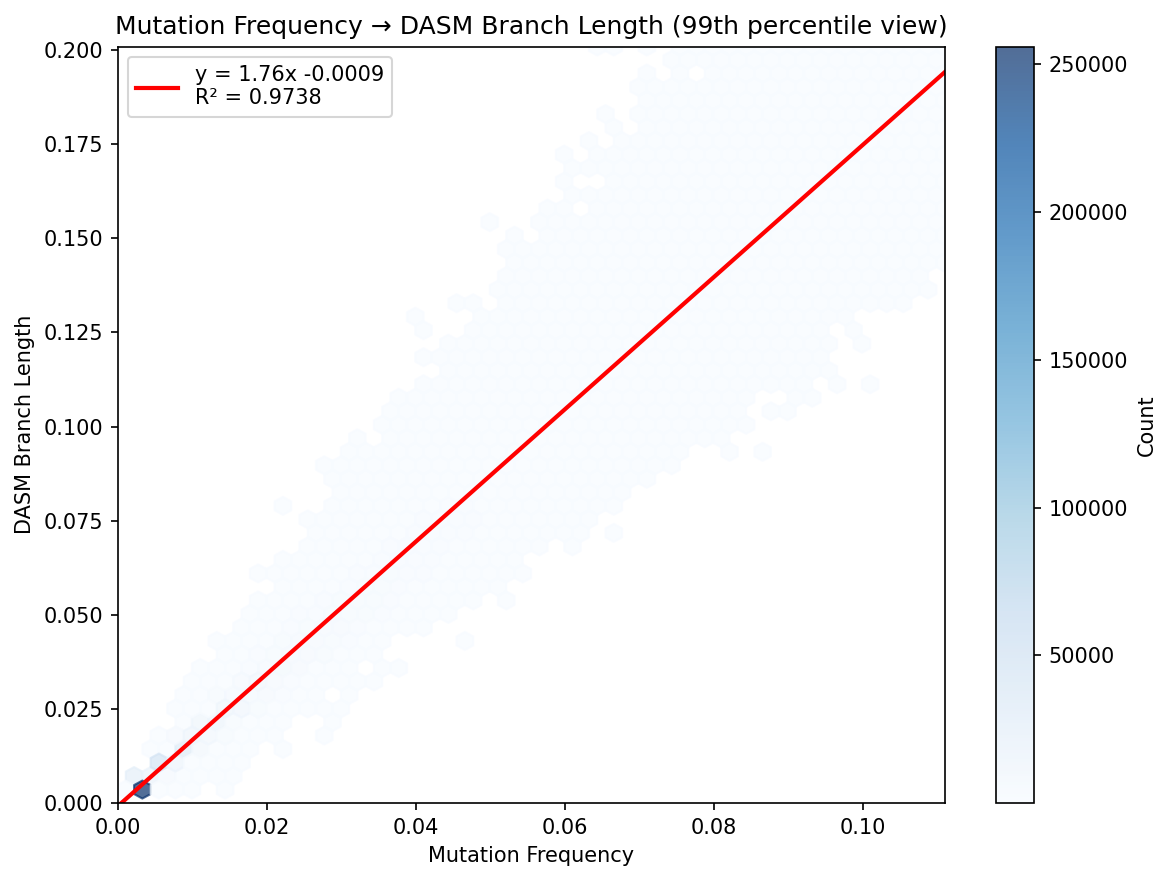
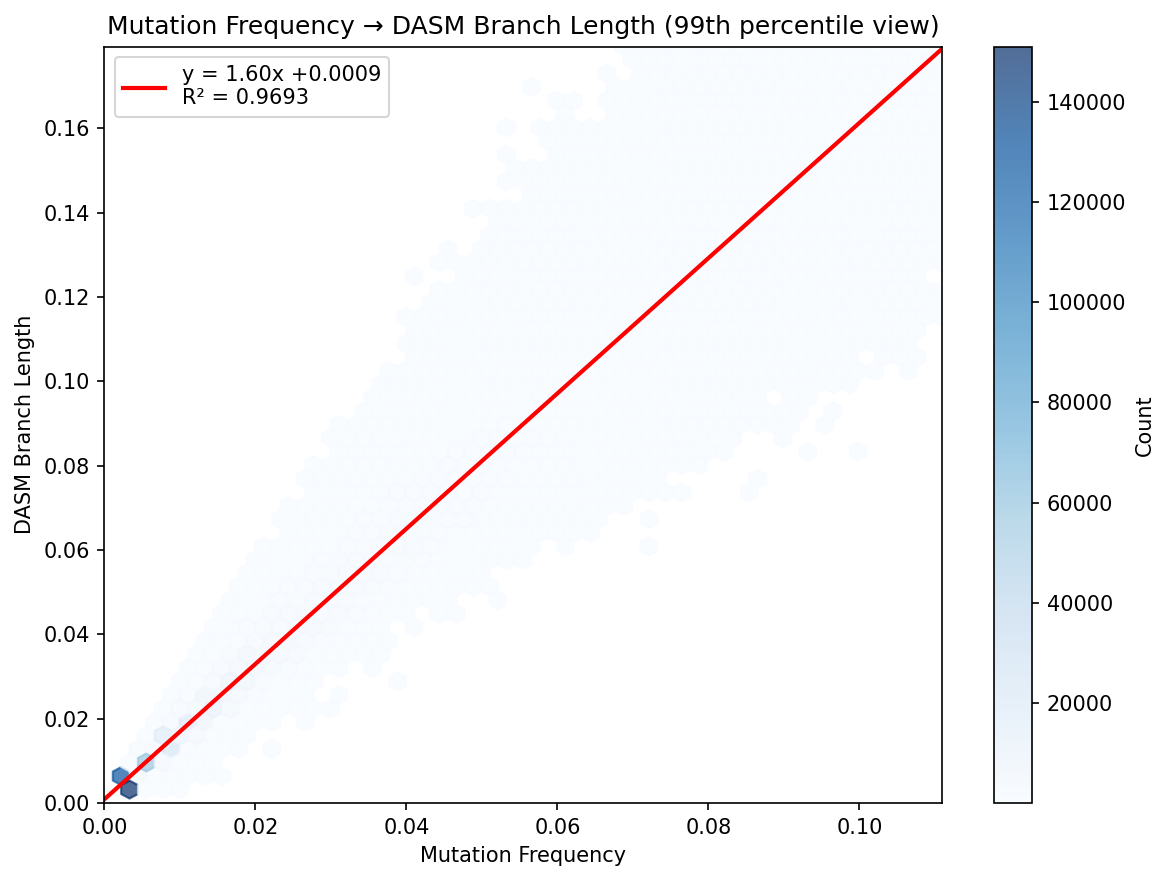
rerun branch length regression with updated dasm prediction cash (updated model from Jan 17)

diff --git a/branch-length-regression/branch_length_regression.py b/branch-length-regression/branch_length_regression.py
@@ -32,7 +32,7 @@ def load_data():
     ]
 
     model_dir = localify("DASM_TRAINED_MODELS_DIR")
-    model_name = "dasm_1m-v1jaffeCC+v1tangCC-joint"
+    model_name = "dasm_4m-v1jaffeCC+v1tangCC-joint"
 
     train_bls = pd.read_csv(f"{model_dir}/{model_name}.train_branch_lengths.csv")
     val_bls = pd.read_csv(f"{model_dir}/{model_name}.val_branch_lengths.csv")